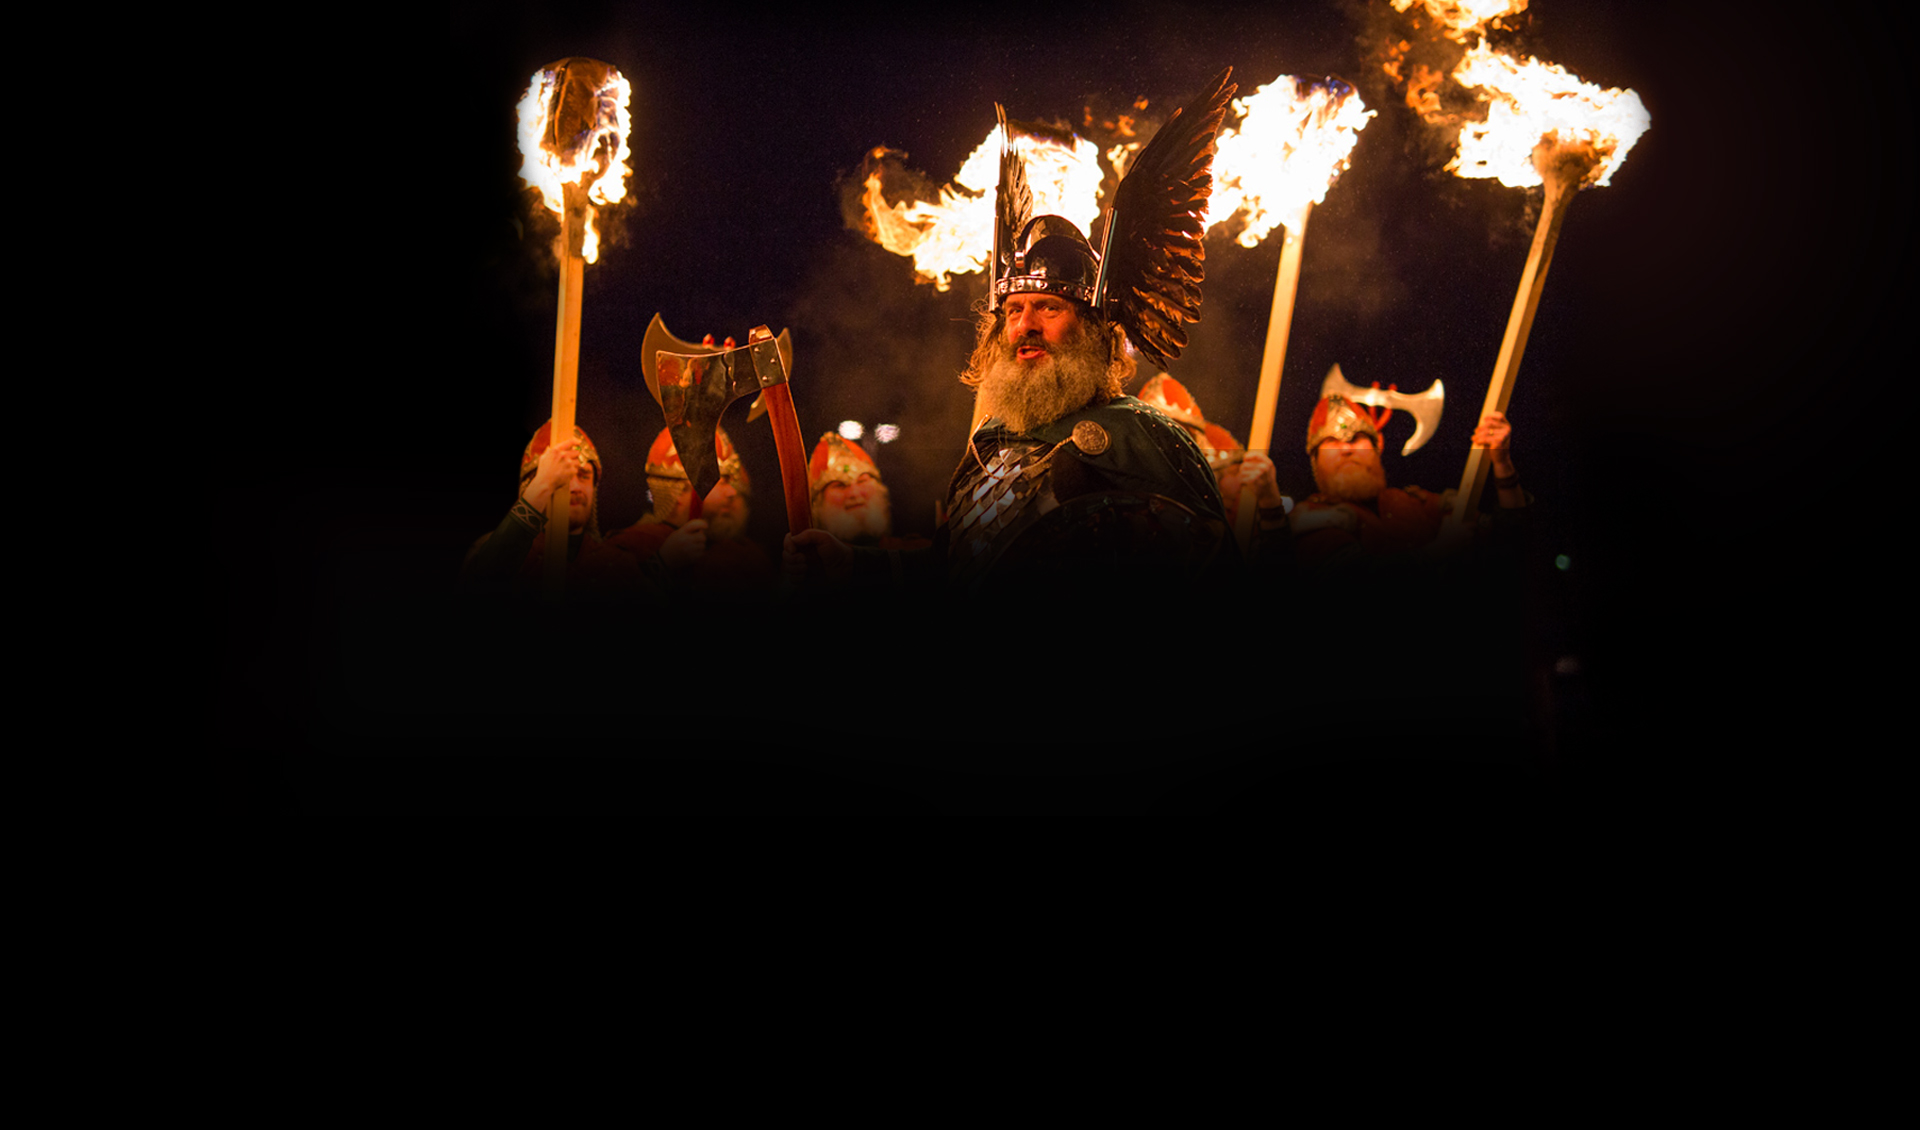
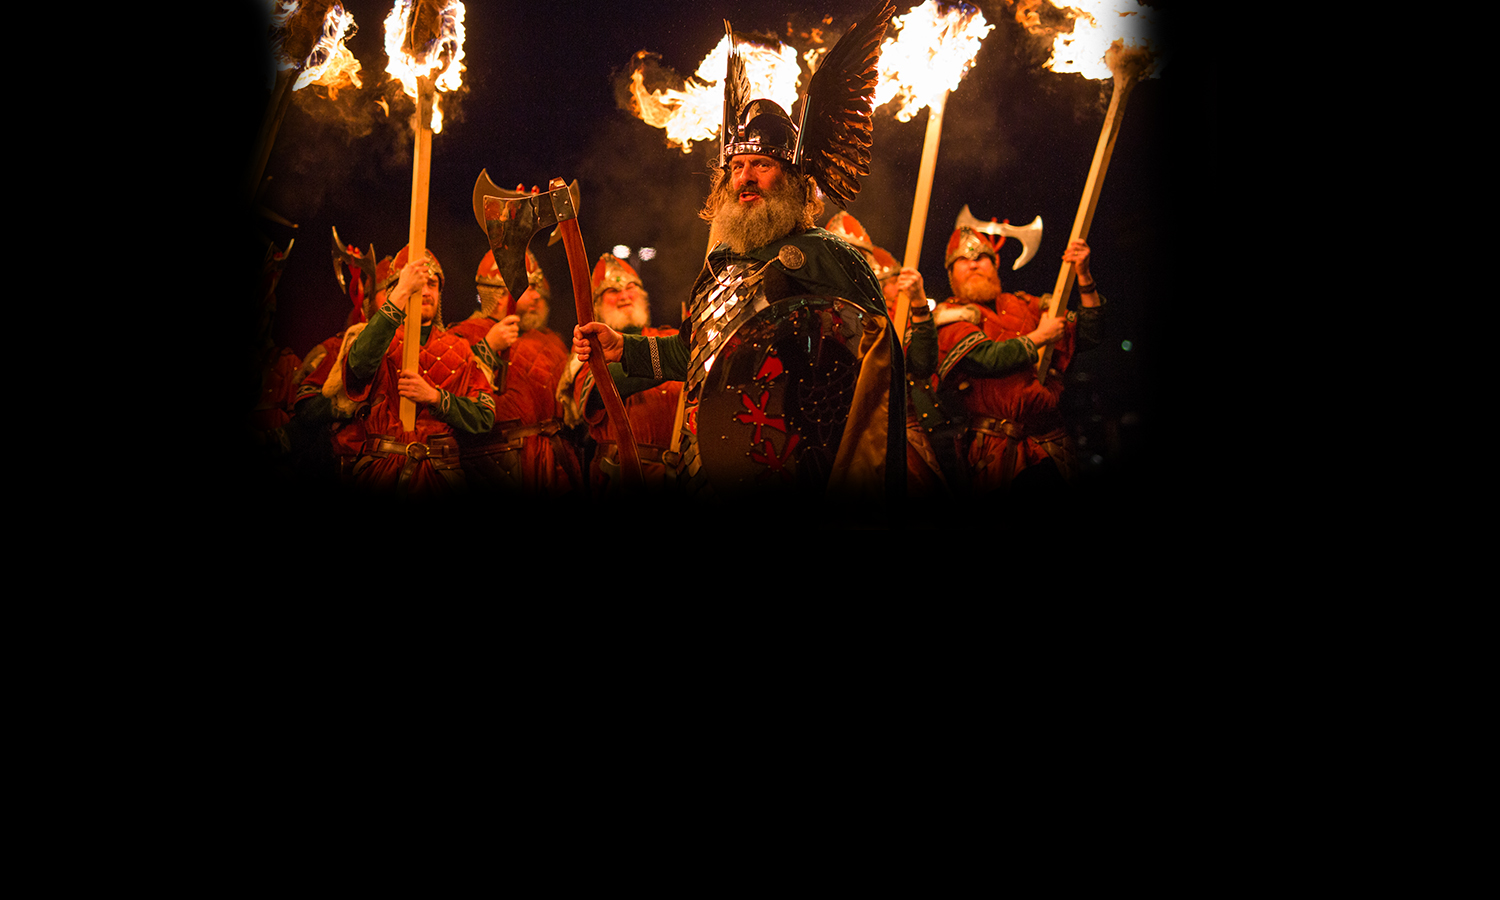
Final

Changed region(s): [[0.1533, 0.0, 0.8893, 0.56]]

diff --git a/src/scss/modules/banner.scss b/src/scss/modules/banner.scss
@@ -1,7 +1,7 @@
 .banner {
 	background-color: $black;
 	position: relative;
-	padding: 200px 0 75px;
+	padding: 470px 0 75px;
 
 	&::after {
 		background-image: linear-gradient(to bottom, $black, transparent);
@@ -13,6 +13,10 @@
 		width: 100%;
 		z-index: 0;
 		pointer-events: none;
+	}
+
+	h1, .subtitle {
+		text-shadow: 6px 2px 8px $black;
 	}
 
 	.subtitle {

diff --git a/src/scss/theme/header.scss b/src/scss/theme/header.scss
@@ -42,6 +42,7 @@
 	.social {
 		a {
 			border: 2px solid $white;
+			box-shadow: 0 0 7px 0 rgba($black, .7);
 			border-radius: 50%;
 			height: 42px;
 			display: inline-block;
@@ -85,6 +86,7 @@
 
 				span {
 					background: $white;
+					box-shadow: 0 0 7px 0 rgba($black, .7);
 					display: inline-block;
 					border-radius: 50%;
 					margin-left: 10px;

diff --git a/src/scss/theme.scss b/src/scss/theme.scss
@@ -6,7 +6,7 @@
 
 @import 'helpers/mixins.scss';
 
-@import 'layout/icon-font.scss';
+@import 'layout/_icon-font.scss';
 @import 'helpers/helpers.scss';
 @import 'layout/buttons.scss';
 @import 'layout/forms.scss';
